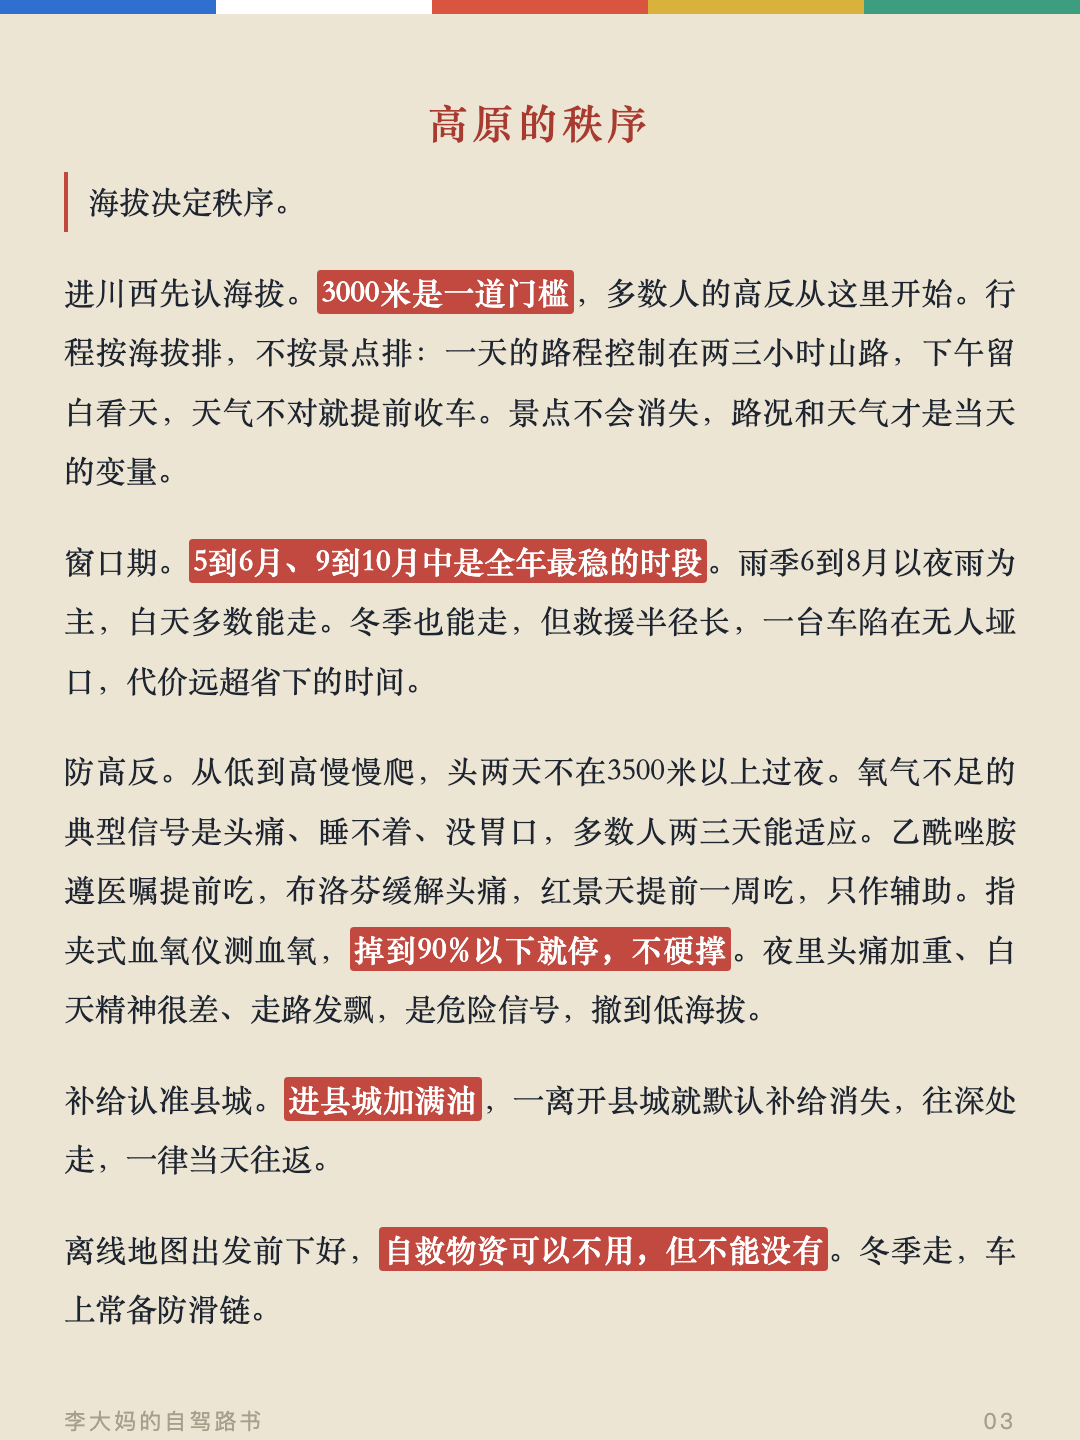
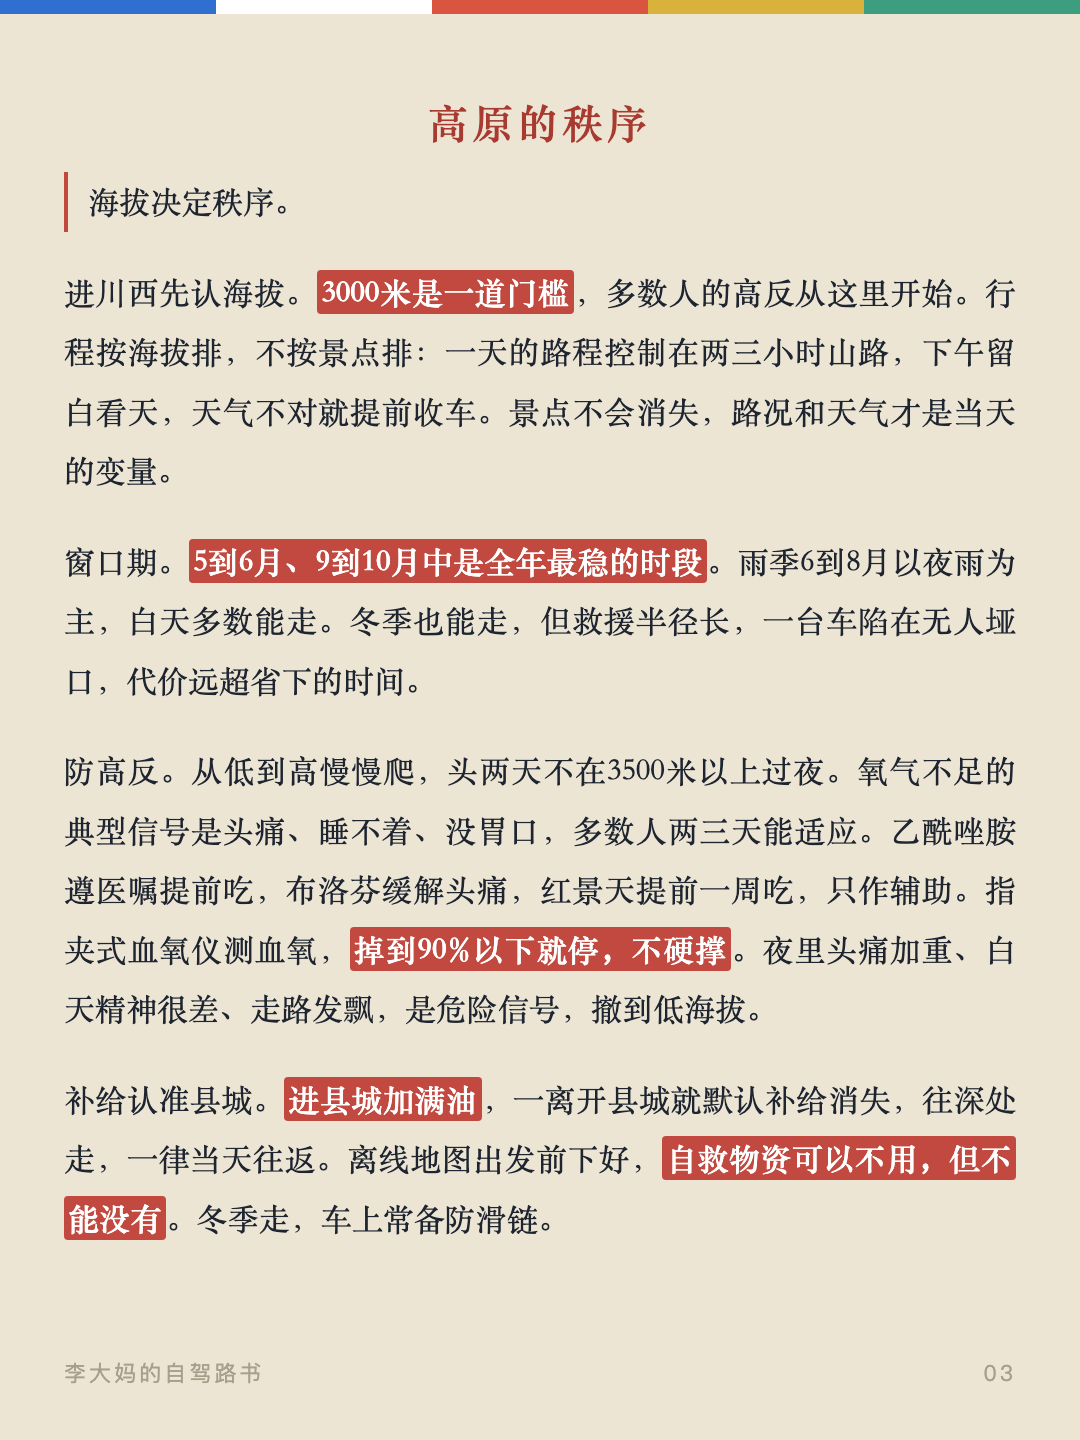
离线地图段并入补给段，页脚恢复正常位置

Changed region(s): [[0.0611, 0.7812, 0.9472, 1.0]]

diff --git a/cards.html b/cards.html
@@ -127,7 +127,7 @@
 
 <div class="card" id="card2"><div class="flag" aria-hidden="true"><span style="background:var(--flag-blue)"></span><span style="background:var(--flag-white)"></span><span style="background:var(--flag-red)"></span><span style="background:var(--flag-yellow)"></span><span style="background:var(--flag-green)"></span></div><div class="card__inner"><h3>与人相处</h3><p><strong>牧民。</strong> 牛羊是牧民的主要家当。遇到牧群，放慢车速、不鸣笛，等它们过。拍牧民和牲畜，先打招呼再举相机。牧场的帐篷和围栏，不随便进。</p><p><strong>匠人。</strong> 进工坊先问能不能看，问手艺、问工序，匠人愿意聊就聊。工具和材料不上手碰。买现货，半成品和机压仿品不碰。</p><p><strong>僧侣。</strong> 称呼用「师父」或「上师」。进大殿脱帽、轻声、顺时针走，不拍照、不指佛像。法会时安静看，不打断、不围观起哄。</p><p><strong>司机和本地人。</strong> 见面一句「扎西德勒」，气氛就开了。问路、问价，态度客气，多数人都愿意答。高原上的人大多直接，不绕弯，打交道也直接。</p><p><strong>买东西。</strong> 讲好价就认，不反复缠价。看上了再还价，压完不买<span class="nowrap">最伤和气。</span></p><p><strong>拍照。</strong> 拍人先问，拍寺院内部和法会先看有没有禁令。相机镜头对着人的时候，先问一句，多数人会同意的。</p><div class="card__foot"><span>李大妈的自驾路书</span><span>02</span></div></div></div>
 
-<div class="card" id="card3"><div class="flag" aria-hidden="true"><span style="background:var(--flag-blue)"></span><span style="background:var(--flag-white)"></span><span style="background:var(--flag-red)"></span><span style="background:var(--flag-yellow)"></span><span style="background:var(--flag-green)"></span></div><div class="card__inner"><h2>高原的秩序</h2><p class="card__lead">海拔决定秩序。</p><p>进川西先认海拔。<strong>3000米是一道门槛</strong>，多数人的高反从这里开始。行程按海拔排，不按景点排：一天的路程控制在两三小时山路，下午留白看天，天气不对就提前收车。景点不会消失，路况和天气才是当天的变量。</p><p>窗口期。<strong>5到6月、9到10月中是全年最稳的时段</strong>。雨季6到8月以夜雨为主，白天多数能走。冬季也能走，但救援半径长，一台车陷在无人垭口，代价远超省下的时间。</p><p>防高反。从低到高慢慢爬，头两天不在3500米以上过夜。氧气不足的典型信号是头痛、睡不着、没胃口，多数人两三天能适应。乙酰唑胺遵医嘱提前吃，布洛芬缓解头痛，红景天提前一周吃，只作辅助。指夹式血氧仪测血氧，<strong>掉到90%以下就停，不硬撑</strong>。夜里头痛加重、白天精神很差、走路发飘，是危险信号，撤到低海拔。</p><p>补给认准县城。<strong>进县城加满油</strong>，一离开县城就默认补给消失，往深处走，一律当天往返。</p><p>离线地图出发前下好，<strong>自救物资可以不用，但不能没有</strong>。冬季走，车上常备防滑链。</p><div class="card__foot"><span>李大妈的自驾路书</span><span>03</span></div></div></div>
+<div class="card" id="card3"><div class="flag" aria-hidden="true"><span style="background:var(--flag-blue)"></span><span style="background:var(--flag-white)"></span><span style="background:var(--flag-red)"></span><span style="background:var(--flag-yellow)"></span><span style="background:var(--flag-green)"></span></div><div class="card__inner"><h2>高原的秩序</h2><p class="card__lead">海拔决定秩序。</p><p>进川西先认海拔。<strong>3000米是一道门槛</strong>，多数人的高反从这里开始。行程按海拔排，不按景点排：一天的路程控制在两三小时山路，下午留白看天，天气不对就提前收车。景点不会消失，路况和天气才是当天的变量。</p><p>窗口期。<strong>5到6月、9到10月中是全年最稳的时段</strong>。雨季6到8月以夜雨为主，白天多数能走。冬季也能走，但救援半径长，一台车陷在无人垭口，代价远超省下的时间。</p><p>防高反。从低到高慢慢爬，头两天不在3500米以上过夜。氧气不足的典型信号是头痛、睡不着、没胃口，多数人两三天能适应。乙酰唑胺遵医嘱提前吃，布洛芬缓解头痛，红景天提前一周吃，只作辅助。指夹式血氧仪测血氧，<strong>掉到90%以下就停，不硬撑</strong>。夜里头痛加重、白天精神很差、走路发飘，是危险信号，撤到低海拔。</p><p>补给认准县城。<strong>进县城加满油</strong>，一离开县城就默认补给消失，往深处走，一律当天往返。离线地图出发前下好，<strong>自救物资可以不用，但不能没有</strong>。冬季走，车上常备防滑链。</p><div class="card__foot"><span>李大妈的自驾路书</span><span>03</span></div></div></div>
 
 <div class="card" id="card4"><div class="flag" aria-hidden="true"><span style="background:var(--flag-blue)"></span><span style="background:var(--flag-white)"></span><span style="background:var(--flag-red)"></span><span style="background:var(--flag-yellow)"></span><span style="background:var(--flag-green)"></span></div><div class="card__inner"><h2>山河的地图</h2><p class="card__lead">山河决定地图。山脉怎么切，路就怎么修。</p><p>川西怎么来的。约4000万到5000万年前，印度板块撞上欧亚板块，把一片浅海抬成陆地，就是青藏高原，川西在高原的东南缘。碰撞到现在没停，高原还在缓慢升高。</p><p>山脉全是南北走向。横断山把川西切成一列列山岭，从东往西：邛崃山，四姑娘山在主脊上；大雪山，贡嘎山海拔7508.9米，蜀山之王；沙鲁里山；雀儿山。山与山之间夹着河谷，路顺着河谷修，镇子落在河谷里。<strong>川西的聚落跟着山河走，不跟着行政区划走。</strong></p><p>河流往三处去。东部是大渡河，小金、金川、丹巴都在它的水系里；雅砻江从甘孜县城边流过；金沙江是德格的西界，德格县城在金沙江东岸。三条江各走各的，最后都汇进长江。</p><p>海子是古冰川留下的湖。冰期冰川刨出的洼地积水成湖，理塘到稻城之间的海子山，古冰川退去后留下1145个高原湖泊。单个看，康定的木格措、九龙的伍须海、巴塘的措普湖各有各的颜色，德格雀儿山下的新路海紧挨着雪峰。</p><div class="card__foot"><span>李大妈的自驾路书</span><span>04</span></div></div></div>
 

diff --git a/index.html b/index.html
@@ -224,8 +224,7 @@
       <p>进川西先认海拔。<strong>3000米是一道门槛</strong>，多数人的高反从这里开始。行程按海拔排，不按景点排：一天的路程控制在两三小时山路，下午留白看天，天气不对就提前收车。景点不会消失，路况和天气才是当天的变量。</p>
       <p>窗口期。<strong>5到6月、9到10月中是全年最稳的时段</strong>。雨季6到8月以夜雨为主，白天多数能走。冬季也能走，但救援半径长，一台车陷在无人垭口，代价远超省下的时间。</p>
       <p>防高反。从低到高慢慢爬，头两天不在3500米以上过夜。氧气不足的典型信号是头痛、睡不着、没胃口，多数人两三天能适应。乙酰唑胺遵医嘱提前吃，布洛芬缓解头痛，红景天提前一周吃，只作辅助。指夹式血氧仪测血氧，<strong>掉到90%以下就停，不硬撑</strong>。夜里头痛加重、白天精神很差、走路发飘，是危险信号，撤到低海拔。</p>
-      <p>补给认准县城。<strong>进县城加满油</strong>，一离开县城就默认补给消失，往深处走，一律当天往返。</p>
-      <p>离线地图出发前下好，<strong>自救物资可以不用，但不能没有</strong>。冬季走，车上常备防滑链。</p>
+      <p>补给认准县城。<strong>进县城加满油</strong>，一离开县城就默认补给消失，往深处走，一律当天往返。离线地图出发前下好，<strong>自救物资可以不用，但不能没有</strong>。冬季走，车上常备防滑链。</p>
     </section>
 
     <!-- 二、山河的地图 -->

diff --git a/gen_cards.py b/gen_cards.py
@@ -37,8 +37,7 @@ BODY_STREAM = [
   ('p', '进川西先认海拔。<strong>3000米是一道门槛</strong>，多数人的高反从这里开始。行程按海拔排，不按景点排：一天的路程控制在两三小时山路，下午留白看天，天气不对就提前收车。景点不会消失，路况和天气才是当天的变量。'),
   ('p', '窗口期。<strong>5到6月、9到10月中是全年最稳的时段</strong>。雨季6到8月以夜雨为主，白天多数能走。冬季也能走，但救援半径长，一台车陷在无人垭口，代价远超省下的时间。'),
   ('p', '防高反。从低到高慢慢爬，头两天不在3500米以上过夜。氧气不足的典型信号是头痛、睡不着、没胃口，多数人两三天能适应。乙酰唑胺遵医嘱提前吃，布洛芬缓解头痛，红景天提前一周吃，只作辅助。指夹式血氧仪测血氧，<strong>掉到90%以下就停，不硬撑</strong>。夜里头痛加重、白天精神很差、走路发飘，是危险信号，撤到低海拔。'),
-  ('p', '补给认准县城。<strong>进县城加满油</strong>，一离开县城就默认补给消失，往深处走，一律当天往返。'),
-  ('p', '离线地图出发前下好，<strong>自救物资可以不用，但不能没有</strong>。冬季走，车上常备防滑链。'),
+  ('p', '补给认准县城。<strong>进县城加满油</strong>，一离开县城就默认补给消失，往深处走，一律当天往返。离线地图出发前下好，<strong>自救物资可以不用，但不能没有</strong>。冬季走，车上常备防滑链。'),
   ('h2', '山河的地图'),
   ('lead', '山河决定地图。山脉怎么切，路就怎么修。'),
   ('p', '川西怎么来的。约4000万到5000万年前，印度板块撞上欧亚板块，把一片浅海抬成陆地，就是青藏高原，川西在高原的东南缘。碰撞到现在没停，高原还在缓慢升高。'),
